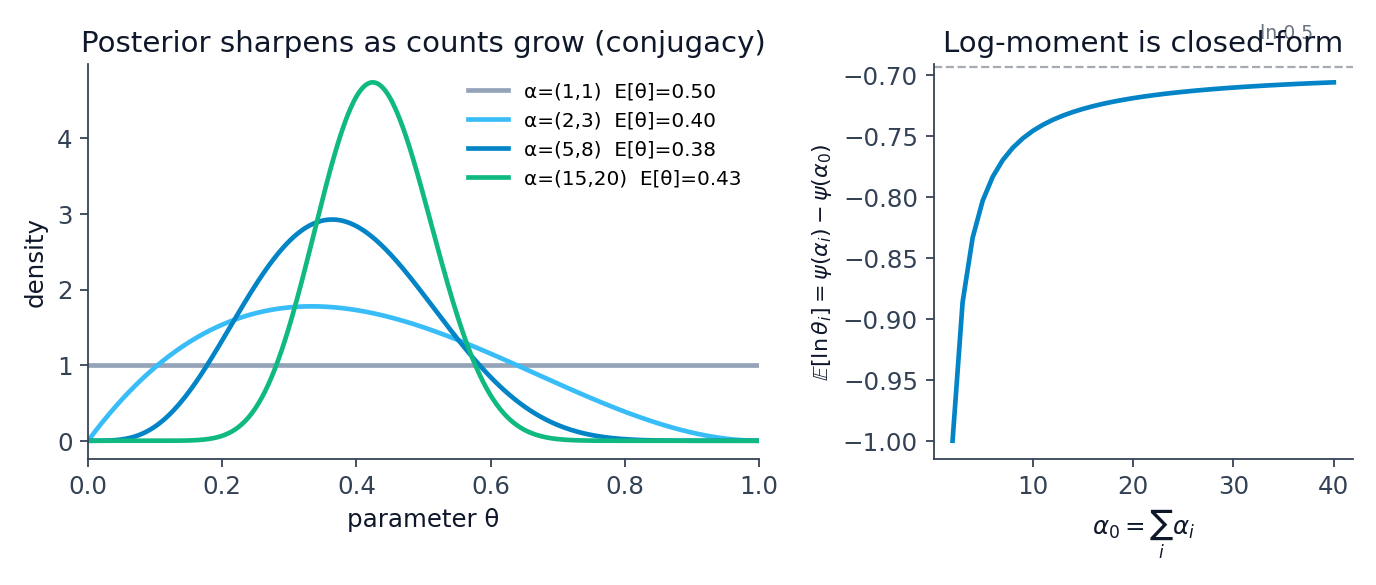
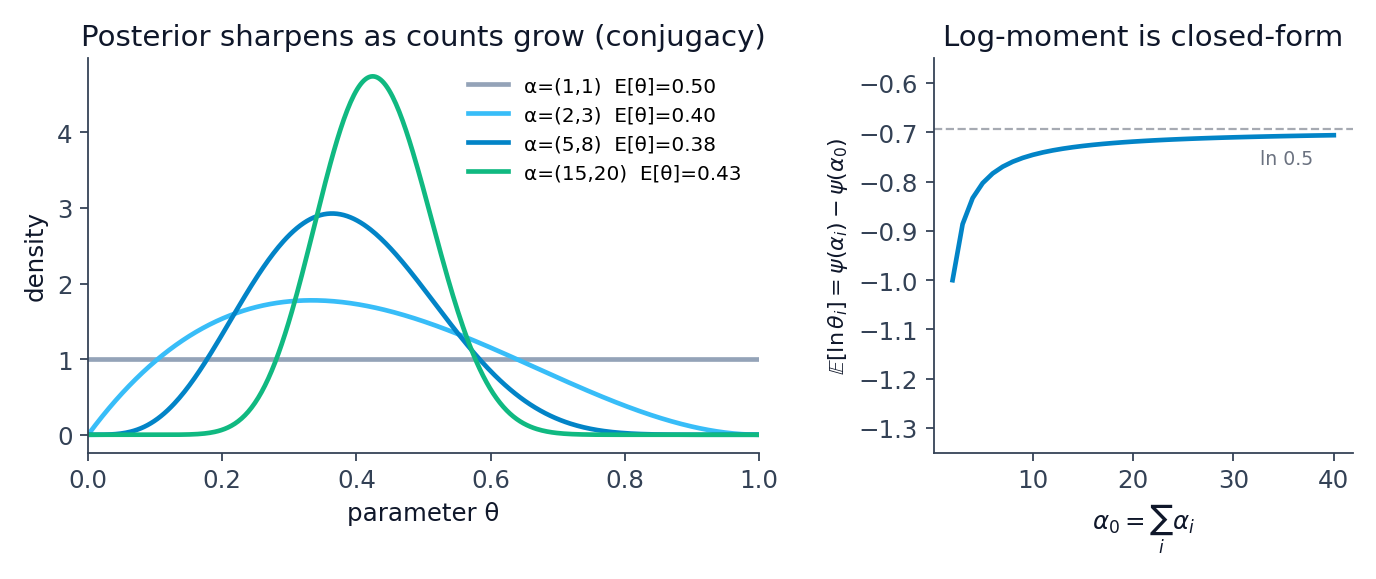
Polish: visuals, layout, and Stanhope-bridge narrative
- T-maze slide: fix $p$ rendering (needed blank lines around div content),
  centre the mermaid flowchart within the right column.
- A-matrix and Dirichlet slides: stop the right-hand card from stretching
  to match left-column height, removing the empty-card whitespace.
- Dirichlet visual: raise the ψ-subplot y-range so the ln 0.5 annotation
  no longer collides with the subplot title.
- Drone slide: add a one-line framing of Munin's bet (cheap-missile bet,
  Ukraine-scale) so the factual bullets land with context. Tighten bullets.
- New 'Where this work meets Stanhope' slide: explicit discriminative-vs-
  generative contrast between the Munin pipeline and active inference,
  with SENTINEL/Real World Model tie-ins and a closing offer line.

diff --git a/presentation/scripts/gen_visuals.py b/presentation/scripts/gen_visuals.py
@@ -190,9 +190,10 @@ def fig_dirichlet_digamma():
     ax2.set_xlabel("$\\alpha_0 = \\sum_i \\alpha_i$")
     ax2.set_ylabel("$\\mathbb{E}[\\ln\\theta_i] = \\psi(\\alpha_i) - \\psi(\\alpha_0)$", fontsize=10)
     ax2.set_title("Log-moment is closed-form")
+    ax2.set_ylim(-1.35, -0.55)
     ax2.axhline(np.log(0.5), color=C_MUTE, ls="--", lw=1, alpha=0.6)
-    ax2.text(38, np.log(0.5) + 0.02, "ln 0.5",
-             fontsize=8.5, color=C_MUTE, ha="right", va="bottom")
+    ax2.text(38, np.log(0.5) - 0.04, "ln 0.5",
+             fontsize=8.5, color=C_MUTE, ha="right", va="top")
     save(fig, "dirichlet-digamma.png")
 
 

diff --git a/presentation/slides.md b/presentation/slides.md
@@ -84,12 +84,14 @@ layout: two-cols
 </v-clicks>
 
 <div v-click class="pt-6 text-sm opacity-80">
+
 The agent does not know $p$. It must choose between exploiting what it knows (safe) and learning what it doesn't (risky) — without an explicit exploration bonus.
+
 </div>
 
 ::right::
 
-<div class="pl-6">
+<div class="flex flex-col items-center">
 
 ```mermaid {scale: 0.8}
 graph TD
@@ -99,8 +101,10 @@ graph TD
   Risky[Risky arm<br/>+large w.p. p<br/>-no-reward w.p. 1-p]
 ```
 
-<div class="pt-4 text-sm opacity-75">
-<b>Why this task?</b> It isolates the learning problem. No hidden context, no partial observability — the only uncertainty is about $p$, a parameter of the observation model.
+<div class="pt-4 text-sm opacity-75 px-4">
+
+**Why this task?** It isolates the learning problem. No hidden context, no partial observability — the only uncertainty is about $p$, a parameter of the observation model.
+
 </div>
 
 </div>
@@ -237,7 +241,7 @@ Paper starts at $\boldsymbol{\alpha}{=}[1,1]$ — maximum a priori uncertainty.
 </div>
 
 </div>
-<div class="bg-white rounded-lg p-2">
+<div class="bg-white rounded-lg p-2 self-center">
 
 <img src="/beta-sharpening-basic.png" class="w-full" />
 
@@ -386,7 +390,7 @@ The second identity is what makes **novelty** computable in closed form — no s
 </div>
 
 </div>
-<div class="bg-white rounded-lg p-2">
+<div class="bg-white rounded-lg p-2 self-center">
 
 <img src="/dirichlet-digamma.png" class="w-full" />
 
@@ -788,40 +792,95 @@ class: text-center
 # Drone work at Munin Dynamics
 <div class="pt-2 text-sm opacity-70">Feb — Aug 2025 · camera-guided interceptor (Micro-MANPAD)</div>
 
-<div class="grid grid-cols-3 gap-6 pt-8 text-left text-sm">
+<div class="pt-3 text-sm opacity-80 max-w-3xl mx-auto">
+
+Munin's bet: the cheapest, smallest missile system that can take out an FPV drone — pocket-sized, scalable to Ukraine-sized threat volumes. My remit was the perception stack on the interceptor itself.
+
+</div>
+
+<div class="grid grid-cols-3 gap-6 pt-6 text-left text-sm">
 
 <div>
 
 **Problem**
 - Detect 7″ quadcopter at 30–350 m
 - 150 m/s closing velocity
-- SWAP: <30 mm diameter processing board
+- SWaP: <30 mm diameter processing board
 - $250 production BoM
 
 </div>
 <div>
 
 **What I built**
-- Camera / SBC hardware selection against DRI/Johnson criteria
-- FOMO detector trained on-platform, quantised for edge
-- Full capture → detect → track pipeline on a Digi ConnectCore 93
+- Camera / SBC selection against DRI/Johnson criteria
+- FOMO detector, trained on-platform, int8-quantised
+- Capture → detect → track pipeline on a Digi ConnectCore 93
 - Field-test support
 
 </div>
 <div>
 
 **Numbers that mattered**
-- FOMO beat YOLOv11n: **90% vs mAP50 0.27**
-- Model size: **~200 KB** (vs ~5 MB for YOLO)
-- Inference: **<1 ms** at 128×128 on the test SBC
-- Total BoM: well inside $250
+- FOMO vs YOLOv11n: **90% recall vs mAP50 0.27**
+- Model size: **~200 KB** (vs ~5 MB)
+- Inference: **<1 ms** at 128×128
+- BoM well inside $250
 
 </div>
 </div>
 
-<div class="pt-6 text-sm opacity-80">
-Earlier at Frazer-Nash (autonomous vehicle vision): rebuilt the perception pipeline from 20 → 70+ fps on Jetson edge hardware while improving detection accuracy.
+<div class="pt-5 text-sm opacity-75 max-w-3xl mx-auto">
+Earlier · <b>Frazer-Nash</b> (autonomous-vehicle vision, Dstl-adjacent): rebuilt the perception pipeline 20 → 70+ fps on Jetson and scoped ML safety cases for UGV perception.
 </div>
+
+---
+
+# Where this work meets Stanhope
+
+<div class="text-sm opacity-80 pt-1">
+
+The perception I built is the **discriminative layer**. Everything interesting Stanhope (and this paper) does sits *above* it.
+
+</div>
+
+<div class="grid grid-cols-2 gap-8 pt-3 text-sm">
+
+<div class="border-l-4 border-slate-400 pl-4">
+
+**What my pipeline *does***
+
+- Pixels → $\{\text{drone},\ \varnothing\}$ in <1 ms on a $10 SBC
+- No posterior — no notion of *"I don't know"*
+- Retrain per domain: clutter, lighting, target drift
+- Greedy tracker: chase the highest-confidence box
+
+</div>
+<div class="border-l-4 border-emerald-400 pl-4">
+
+**What active inference *adds***
+
+- Explicit $q(\theta)$ — a budget for what's unknown
+- Salience + novelty planned *ahead* → **where should the sensor look next?**
+- One objective drives pursuit *and* exploration — no $\varepsilon$-greedy
+- Self-terminating curiosity (digamma, closed form)
+
+</div>
+
+</div>
+
+<div class="pt-3 text-xs opacity-75">
+
+Stanhope's Real World Model is pitched at exactly this layer — adaptive, uncertainty-aware behaviour on small autonomous platforms, trialled in drone & robotics partnerships. Frazer-Nash's SENTINEL (RL for sensor management) is the same problem shape; active inference derives it from one variational objective instead of a hand-engineered reward.
+
+</div>
+
+<div class="pt-3 text-sm font-semibold">
+The offering: I've shipped the perception pipeline that sits <em>underneath</em> a Stanhope-style agent on a defence UAS. What I came here for is the agent on top.
+</div>
+
+<!--
+If asked "why did you leave Munin?" — it's an excellent applied problem but the ceiling is a better detector; I want to work on the planner above it. If asked about Frazer-Nash SENTINEL in interview: it's an RL-for-sensor-management system; active inference collapses the same objective to salience + novelty without a separately learned reward model.
+-->
 
 ---
 layout: center
